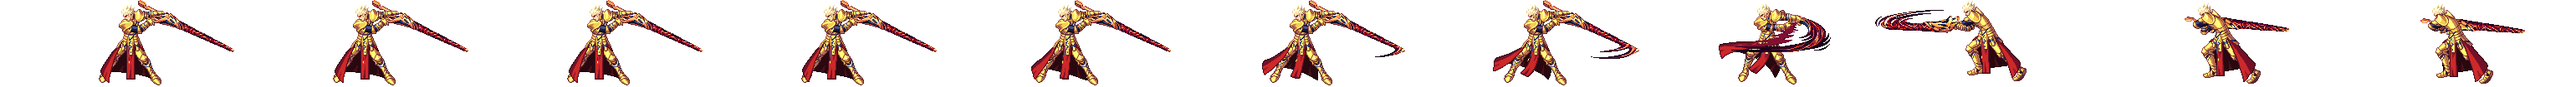
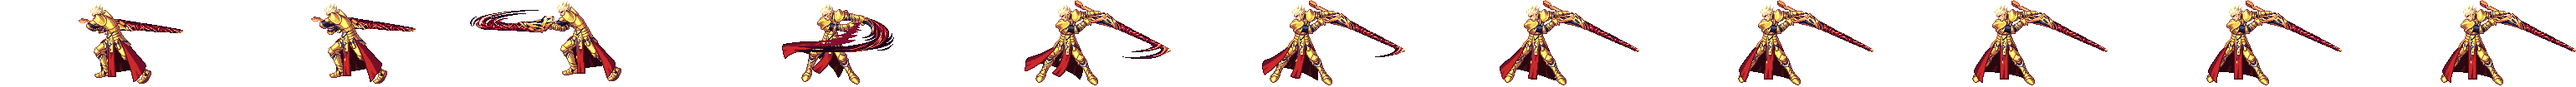
코드 수정
스킬 클래스, 히트박스 코드 개선

diff --git a/lab05_-_game_fraemwork2/main_state.py b/lab05_-_game_fraemwork2/main_state.py
@@ -35,10 +35,13 @@ class Skill:
         self.frames = None
         self.key = None
         self.size = 0
-        self.height = 0;
-        self.width = 0;
-        def get_bb(self,x,y):
-            return x - self.width/2, y - self.height/2,x+self.width/2,y+self.height/2
+        self.height = 0
+        self.width = 0
+        self.time = -1
+        self.tick = -1
+        self.hitCount = 1
+        #def get_bb(self,x,y):
+            #return x - self.width/2, y - self.height/2,x+self.width/2,y+self.height/2
 
 #맵
 class Grass:
@@ -79,19 +82,19 @@ class Monster:
         self.ChangeState()
         self.time = (self.time+1)%5
         if self.state == MON_STATE_IDLE:
-            print("IDLE")
+            #print("IDLE")
             if self.time == 0:
                 self.dir = random.randint(-1,1)
             self.frame = (self.frame+1)%6
             self.x = min(750,self.x+3*self.dir)
             self.x = max(0,self.x+3*self.dir)
         elif self.state == MON_STATE_MOVE:
-            print("MOVE")
+            #print("MOVE")
             self.frame = (self.frame+1)%6
             self.x = min(750,self.x+3*self.dir)
             self.x = max(0,self.x+3*self.dir)
         elif self.state == MON_STATE_ATTACK:
-            print("ATTACK")
+            #print("ATTACK")
             self.frame = (self.frame+1)%4
     def ChangeState(self):
         #print(math.sqrt((boy.x - self.x)*(boy.x - self.x)))
@@ -228,6 +231,7 @@ class InputSystem:
         self.KeyBuffer = list()
         self.InitSkill()
         self.SkillTime = time.time()-10
+        self.skillNumber = -1
 
     #원래는 클래스 생성자에서 하면됩니다만 생성자를 여러개 만들기 귀찮아서 그냥 이렇게 썼습니다 죄송합니다
     def InitSkill(self):
@@ -243,17 +247,22 @@ class InputSystem:
         skill[1].size = 1
         skill[1].name = STATE_MOVE
         skill[2].frames = 10
-        skill[2].key = [RIGHT, RIGHT, X]
+        skill[2].key = [UP, UP, X]
         skill[2].size = 3
+        skill[2].time = 0.2
+        skill[2].tick = 0.1
         skill[2].name = STATE_SKILL1
         skill[3].frames = 8
-        skill[3].key = [RIGHT, DOWN, RIGHT]
-        skill[3].size = 3
+        skill[3].key = [DOWN,Z]
+        skill[3].size = 2
+        skill[3].time = 0.1
+        skill[3].tick = 0.1
         skill[3].name = STATE_SKILL2
         skill[4].frames = 16
-        skill[4].key = [DOWN, RIGHT,Z]
+        skill[4].key = [DOWN, UP,Z]
         skill[4].size = 3
         skill[4].name = STATE_SKILL3
+        skill[4].hitCount = 2
 
 #키 버퍼에 들어가는 시간 체크
     def CheckTime(self):
@@ -270,15 +279,16 @@ class InputSystem:
                 for j in range(len(self.KeyBuffer)):
                     if len(self.KeyBuffer) == skill[i].size:
                         if next(self.it) == skill[i].key[j]:
-                            print("correct")
+                            #print("correct")
                             #print(skill[i].key[j])
                             skill[i].skillNum += 1
                             #print(skill[i].skillNum)
                 self.it = iter(self.KeyBuffer)
             for i in range(SKILL_MAXNUM):
                 if(skill[i].size == skill[i].skillNum):
-                    print("all correct")
+                    #print("all correct")
                     self.SkillTime = time.time()
+                    self.skillNumber = i
                     #print(self.SkillTime)
                     boy.frame = 0
                     boy.State = skill[i].name
@@ -290,16 +300,17 @@ class InputSystem:
             self.ClearBuffer()
 
     def SetHitbox(self):
-        if self.SkillTime + 0.2 <= time.time() and self.SkillTime +0.5 >= time.time():
-            boy.hbPosX = 100
-            boy.hbPosY= 0
-            boy.hbHeight = 100
-            boy.hbWidth = 100
-        else:
-            boy.hbPosX = 2000
-            boy.hbPosY = 2000
-            boy.hbHeight = 1000
-            boy.hbWidth = 1000
+        for i in range(skill[self.skillNumber].hitCount):
+            if self.SkillTime + skill[self.skillNumber].time <= time.time() and self.SkillTime +skill[self.skillNumber].time+skill[self.skillNumber].tick >= time.time():
+                boy.hbPosX = 100*boy.dir
+                boy.hbPosY= 0*boy.dir
+                boy.hbHeight = 100*boy.dir
+                boy.hbWidth = 100*boy.dir
+            else:
+                boy.hbPosX = 2000
+                boy.hbPosY = 2000
+                boy.hbHeight = 1000
+                boy.hbWidth = 1000
 
 #버퍼 초기화
     def ClearBuffer(self):
@@ -347,42 +358,42 @@ def handle_events():
         if event.type == SDL_QUIT:
              game_framework.change_state(title_state)
         elif event.type == SDL_KEYDOWN:
-            print("down")
+            #print("down")
             InputSys.InputTime = time.time()
             if event.key == SDLK_ESCAPE:
                 running = False
             elif event.key == SDLK_RIGHT:
                 InputSys.key = RIGHT
                 if InputSys.InputTime:
-                    print("right")
+                    #print("right")
                     InputSys.KeyBuffer.append(RIGHT)
             elif event.key == SDLK_LEFT:
                 InputSys.key = LEFT
                 if InputSys.InputTime:
-                    print("left")
+                    #print("left")
                     InputSys.KeyBuffer.append(LEFT)
             elif event.key == SDLK_UP:
                 InputSys.key = UP
                 if InputSys.InputTime:
-                    print("up")
+                    #print("up")
                     InputSys.KeyBuffer.append(UP)
             elif event.key == SDLK_DOWN:
                 InputSys.key = DOWN
                 if InputSys.InputTime:
-                    print("down")
+                    #print("down")
                     InputSys.KeyBuffer.append(DOWN)
             elif event.key == SDLK_z:
                 InputSys.key = Z
                 if InputSys.InputTime:
-                    print("z")
+                    #print("z")
                     InputSys.KeyBuffer.append(Z)
             elif event.key == SDLK_x:
                 InputSys.key = X
                 if InputSys.InputTime:
-                    print("x")
+                    #print("x")
                     InputSys.KeyBuffer.append(X)
         elif event.type == SDL_KEYUP:
-            print("up")
+            #print("up")
             if event.key == SDLK_RIGHT:
                 if boy.State == STATE_MOVE:
                     boy.State = STATE_IDLE
